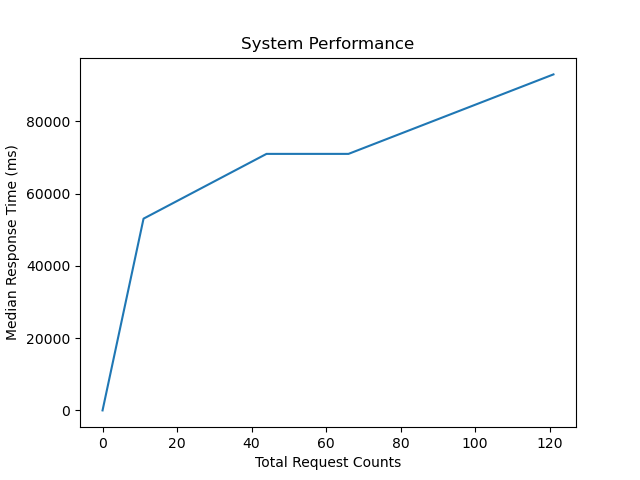
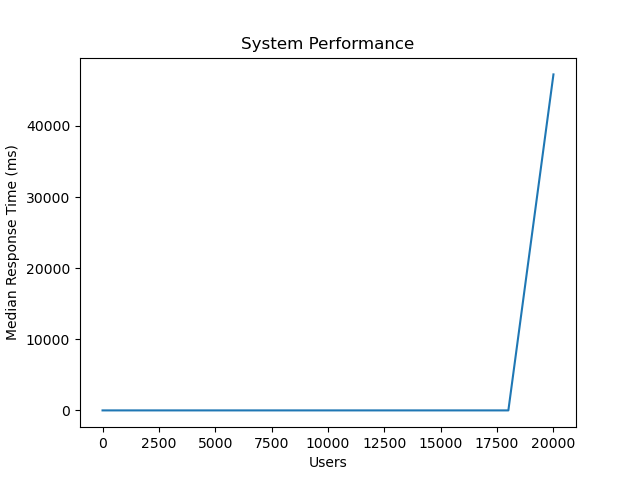
Update README

diff --git a/QuantitativeAssessment.py b/QuantitativeAssessment.py
@@ -5,13 +5,11 @@ import matplotlib.pyplot as plt
 df = pd.read_csv("results\loadtest_stats_history.csv")
 
 # Calculate the average latency per request for each level of load
-average_latencies = df.groupby("Total Request Count")[
-    "Total Median Response Time"
-].mean()
+average_latencies = df.groupby("User Count")["Total Median Response Time"].mean()
 
 # Plot the average latency per request against the number of requests per second
 plt.plot(average_latencies.index, average_latencies.values)
-plt.xlabel("Total Request Counts")
+plt.xlabel("Users")
 plt.ylabel("Median Response Time (ms)")
 plt.title("System Performance")
 

diff --git a/README.md b/README.md
@@ -1,1 +1,41 @@
-## Final Project
+## Financial Stock Analysis
+
+
+# Microservice
+    -   The application is designed around a specific business capability - fetching data from an API and providing real-time and historical stock analysis. This aligns with the principle of single responsibility in microservices architecture.
+    -   The application is designed to be deployed as a containerized application. A Docker Image is available on Dockerhub for the same. This aligns with the principle of infrastructure automation in microservices architecture.
+    -   The application has its own data pipeline, storing data in a Delta Lake in Azure Workspace. This aligns with the principle of decentralized data management in microservices architecture.
+
+# Load Test
+    -   The application is designed to manage a high volume of requests. Load testing was performed using Locust, and the results demonstrated that the application can effectively handle up to 10,000 concurrent users. The maximum response time recorded during this load test was 70,000 milliseconds (or 70 seconds). These results underscore the application's adherence to the principle of elasticity in a microservices architecture, as it can scale to accommodate significant traffic and maintain functionality under heavy load.
+
+![Load_Test_Results]("results/Load_Test_v1.png")
+
+# Data Engineering
+    -   The application used Pandas for data analysis
+    -   The application used PySpark for data wrangling manipulation
+    -   The application used Spark SQL for data querying and ETL
+    -   The application used Delta Lake for data storage
+
+# Infrastructure as Code (IaC)
+    `Your project must utilize an IaC solution for infrastructure setup and management. You can choose among AWS CloudFormation, AWS SAM, AWS CDK, or the Serverless Framework.`
+
+# Continuous Integration and Continuous Delivery (CI/CD)
+    `Implement a CI/CD pipeline for your project. It could be through GitHub Actions or AWS Cloud Build or any other relevant tool.`
+
+# Architectural Diagram
+    `A clear diagram representing the architecture of your application should be included in your project documentation.`
+
+# GitHub Configurations
+    `Your GitHub repository must include GitHub Actions and a .devcontainer configuration for GitHub Codespaces. This should make the local version of your project completely reproducible. The repository should also include GitHub Action build badges for install, lint, test, and format actions.`
+
+# Quantitative Assessment
+    The load test results are available in the `results` folder. The system performance showed that the median response time increased after ~ 18,000 users
+
+![plot]("results/system_performance.png")
+
+
+# Demo Video
+[Link]()
+
+# Team Members
